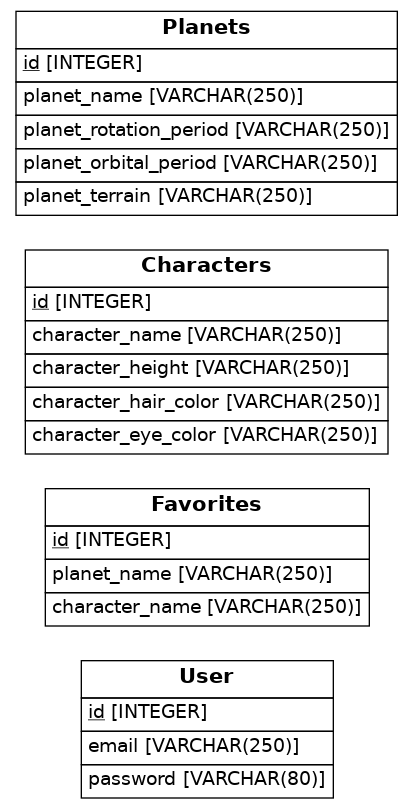
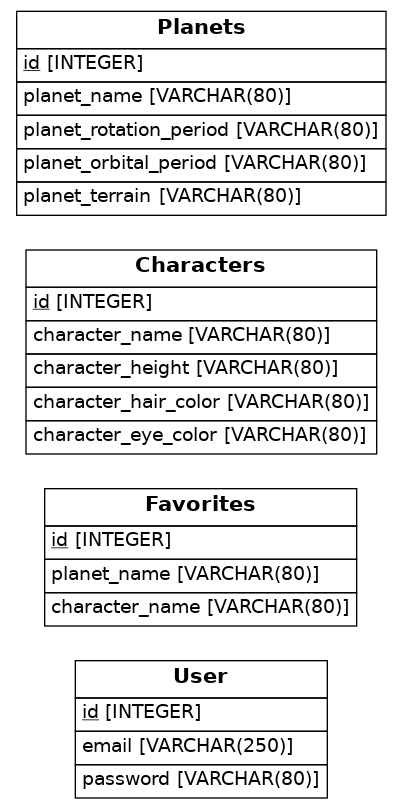
tweaking favorites

diff --git a/src/models.py b/src/models.py
@@ -24,7 +24,9 @@ class UserFavorites(Base):
     id = Column(Integer, primary_key=True)
     planet_name = Column(String(80))
     character_name = Column(String(80))
-    users_favorited = relationship(User, secondary='user_favorites', viewonly=True)
+    # users_favorited = relationship(User, secondary='user_favorites', viewonly=True)
+    planets_id = relationship(Integer, ForeignKey('planet.id'))
+    character_id = relationship(Integer, ForeignKey('character.id'))
 
     def to_dict(self):
         return {
